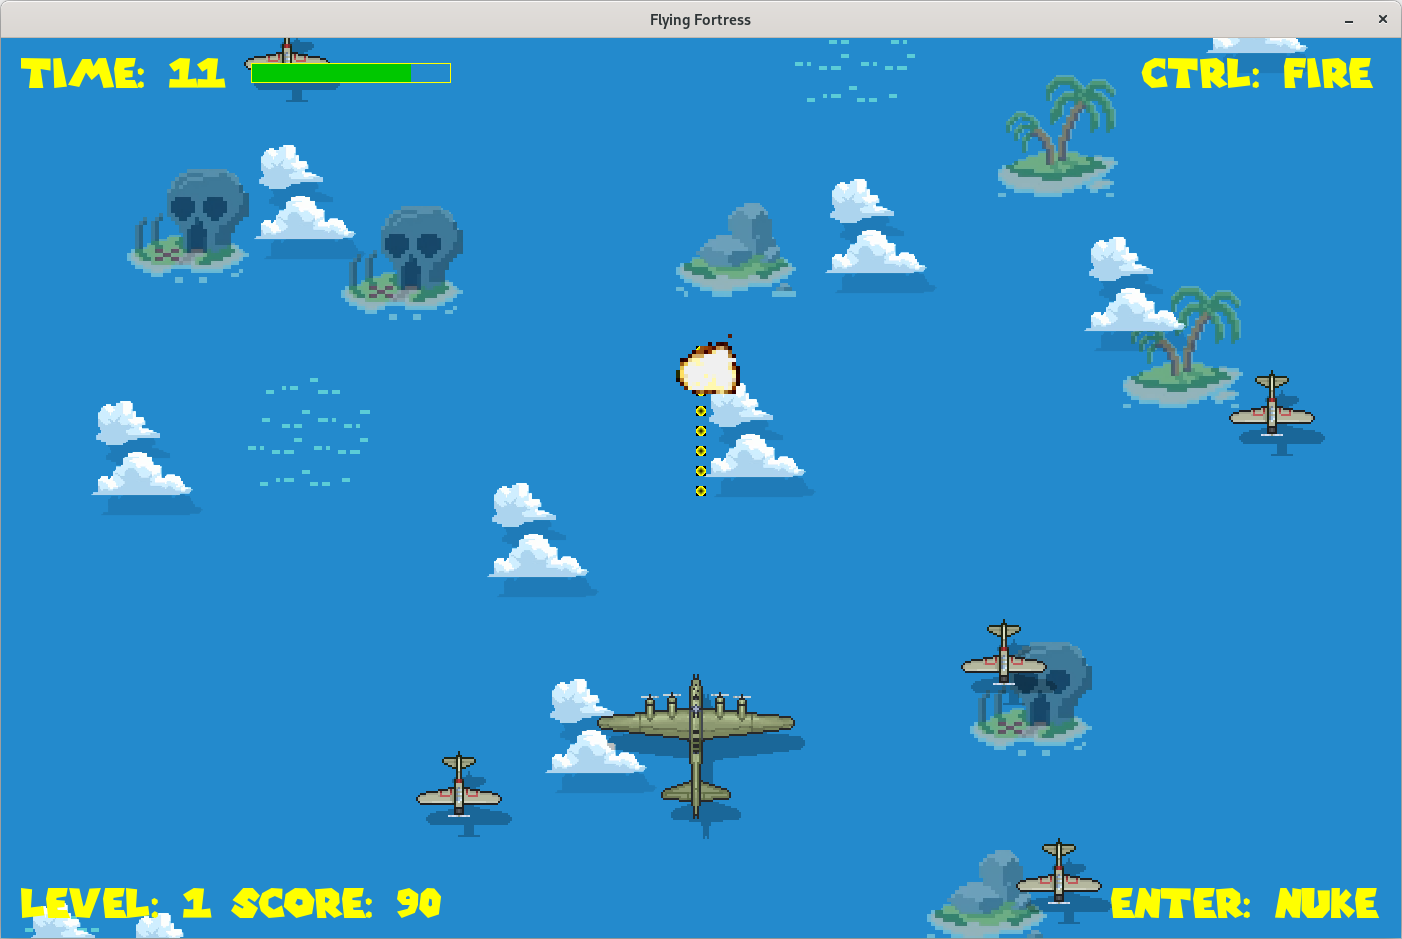
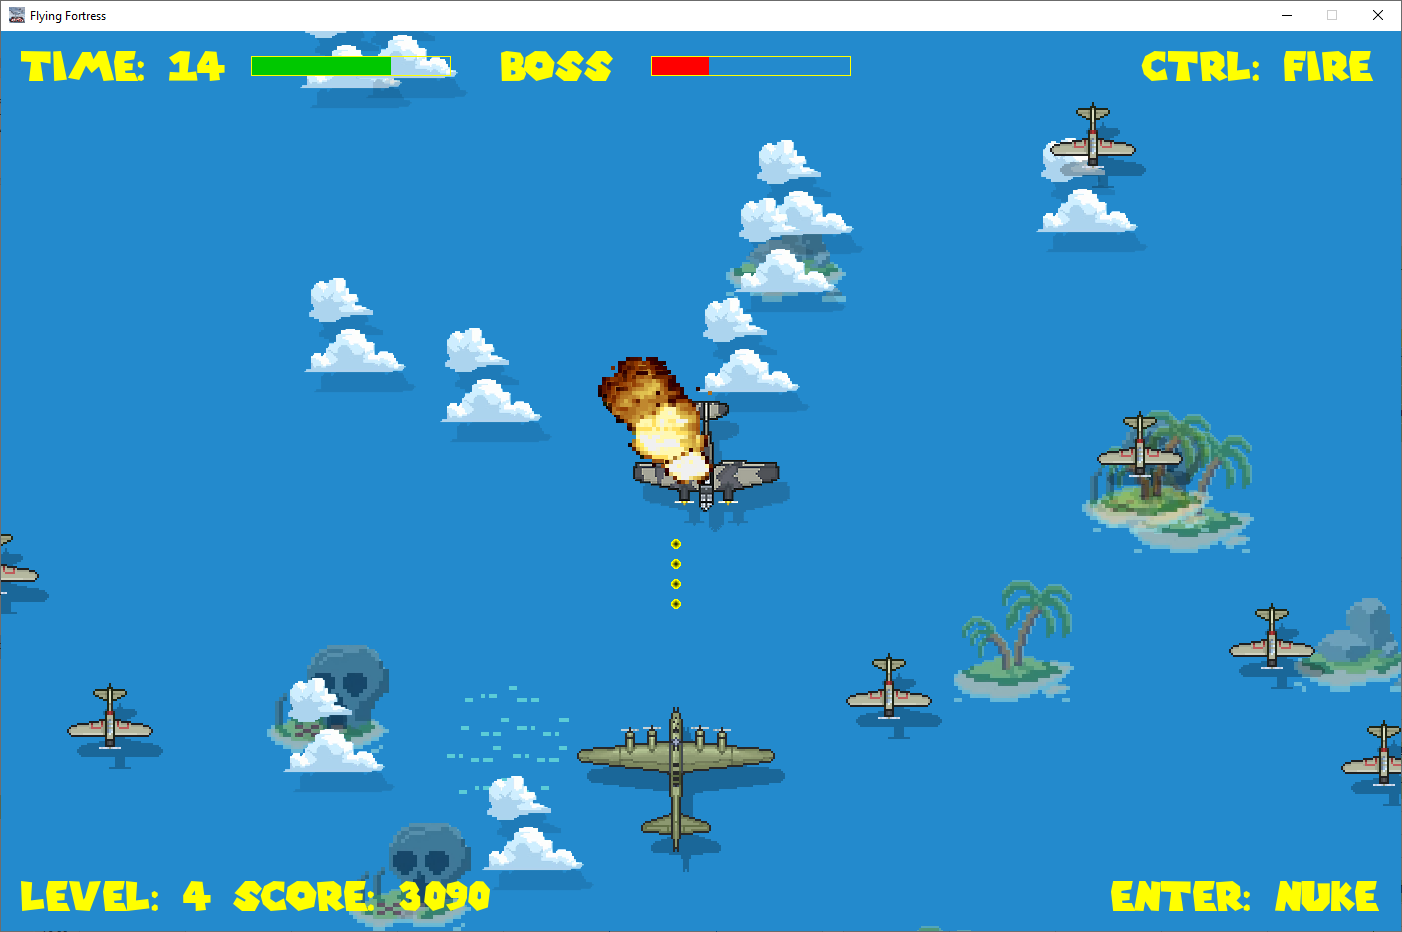
End-of-level boss added

diff --git a/game.py b/game.py
@@ -13,7 +13,8 @@
 # * 2024.08.16 - parallax scrolling added
 # * 2024.08.16 - gun fires riffles to increase difficulty
 # * 2024.08.16 - improved bullet shape
-# * 2004.08.20 - intro screen added
+# * 2024.08.20 - intro screen added
+# * 2024.08.23 - boss added
 #################################################################
 
 import random
@@ -152,7 +153,62 @@ class EnemySprite(pygame.sprite.Sprite):
             Explosion(x, y)
         super(EnemySprite, self).kill()
 
-# PLayer class
+# Boss class
+class BossSprite(pygame.sprite.Sprite):
+    def __init__(self, x_pos, groups):
+        super(BossSprite, self).__init__()
+        self.image = pygame.image.load("./assets/boss.png").convert_alpha()
+        self.rect = self.image.get_rect()
+        self.rect.center = (x_pos, 0)
+        self.velocity = random.randint(3, 10)
+        self.add(groups)
+        self.explosion_sound = pygame.mixer.Sound("./assets/explosion.wav")
+        self.explosion_sound.set_volume(0.4)
+        self.visible = False
+        self.moving_down = True
+        self.moving_left = False
+        self.health = 100
+        if random.randint(0,1)==0:
+            self.moving_left = False
+
+    def update(self):
+        x, y = self.rect.center
+        if self.visible:
+            # boss sprite bounces on screen borders
+            if x<self.rect.width/2:
+                self.moving_left = False
+            if x>X_MAX-self.rect.width/2:
+                self.moving_left = True
+            if y<self.rect.height/2:
+                self.moving_down = True
+            if y>Y_MAX-self.rect.height/2:
+                self.moving_down = False
+            if self.moving_left:
+                x = x - self.velocity
+            else:
+                x = x + self.velocity
+            if self.moving_down:
+                y = y + self.velocity
+            else:
+                y = y - self.velocity
+        else:
+            # boss sprite moved out of screen limits
+            x, y = -100, 0    
+            # boss health restored
+            self.health = 100            
+        self.rect.center = x, y
+
+    def kill(self):
+        if self.visible:
+            self.health = self.health - 1
+            x, y = self.rect.center
+            if pygame.mixer.get_init():
+                self.explosion_sound.play(maxtime=1000)
+                Explosion(x, y)
+            if self.health<=0:
+                self.visible = False
+
+# Player class
 class PlayerSprite(pygame.sprite.Sprite):
     def __init__(self, groups, weapon_groups):
         super(PlayerSprite, self).__init__()
@@ -164,18 +220,15 @@ class PlayerSprite(pygame.sprite.Sprite):
         self.health = 100
         self.score = 0
         self.riffle = 0
-
         self.groups = [groups, weapon_groups]
-
         self.mega = 1
-
         self.in_position = False
         self.velocity = 2
 
     def update(self):
         x, y = self.rect.center
 
-        # Handle movement
+        # Handle movements
         if x + self.dx < self.rect.width/4:
             self.dx = 0
 
@@ -272,7 +325,7 @@ def main():
 
     # set window size
     screen = pygame.display.set_mode((X_MAX, Y_MAX), pygame.DOUBLEBUF)
-    
+    2
     screen.fill(BACKGROUND_COLOR)
     enemies = pygame.sprite.Group()
     weapon_fire = pygame.sprite.Group()
@@ -281,6 +334,8 @@ def main():
 
     islands = create_islands(everything)
     clouds = create_clouds(everything)
+    boss = BossSprite(-999, [everything, enemies])
+
 
     player = PlayerSprite(everything, weapon_fire)
     player.add(everything)
@@ -345,6 +400,7 @@ def main():
                             player.mega = 1
                             player.score = 0
                             player.health = 100
+                            boss.visible = False
                             game_over = False
                 if next_level:
                     if event.type == pygame.KEYDOWN:
@@ -355,12 +411,14 @@ def main():
                             player.mega = 1
                             player.score = player.score + 10
                             player.health = 100
+                            boss.visible = False
                             next_level = False
 
             # Check for next level reached
             if player.score > 0 and int(time)==LEVEL_TIME:
                 for i in enemies:
-                    i.kill()            
+                    i.kill()      
+                boss.visible = False
                 next_level = True
                         
             # Check for damages
@@ -372,9 +430,8 @@ def main():
             # Check for death
             if player.health <= 0:
                 player.health = 0
-                player.kill()
+                player.kill()                
                 game_over = True
-
 
             # Check for kills
             if not game_over and not next_level:
@@ -386,10 +443,17 @@ def main():
                         i.kill()
                         player.score += 10
 
-            # Spawn new ennemies
+            # Spawn new enemies
             if len(enemies) < MAX_ENEMIES and not game_over and not next_level:
                 pos = random.randint(0, X_MAX)
                 EnemySprite(pos, [everything, enemies])
+
+            # Spawn final boss after 10 sec
+            if int(time)==10 and boss.visible==False:
+                pos = random.randint(0, X_MAX)
+                boss.visible = True
+                boss.rect.x = pos
+        
 
             screen.fill(BACKGROUND_COLOR)
 
@@ -409,6 +473,15 @@ def main():
                 bar_color = (0,200,0)
             pygame.draw.rect(screen, bar_color, pygame.Rect(250,25,player.health*2,20))
             pygame.draw.rect(screen, (255, 255, 0), pygame.Rect(250,25,200,20), 1)
+
+            if boss.visible:
+                game_font_ui.render_to(screen, (500, 20), "BOSS", (255,255,0))                
+                if boss.health<=50:
+                    bar_color = (255,0,0)
+                else:
+                    bar_color = (0,200,0)
+                pygame.draw.rect(screen, bar_color, pygame.Rect(650,25,boss.health*2,20))
+                pygame.draw.rect(screen, (255, 255, 0), pygame.Rect(650,25,200,20), 1)
 
             # Draw UI
             game_font_ui.render_to(screen, (20,20),"TIME: {}".format(

diff --git a/readme.md b/readme.md
@@ -26,6 +26,7 @@ Extra game logic and artwork by fabrice.kauffmann@gmail.com
 * 2024.08.16 - gun fires riffles to increase difficulty
 * 2014.08.16 - improved bullet shape
 * 2004.08.20 - intro screen added
+* 2024.08.23 - final boss added
 
 ## Requirements
 
